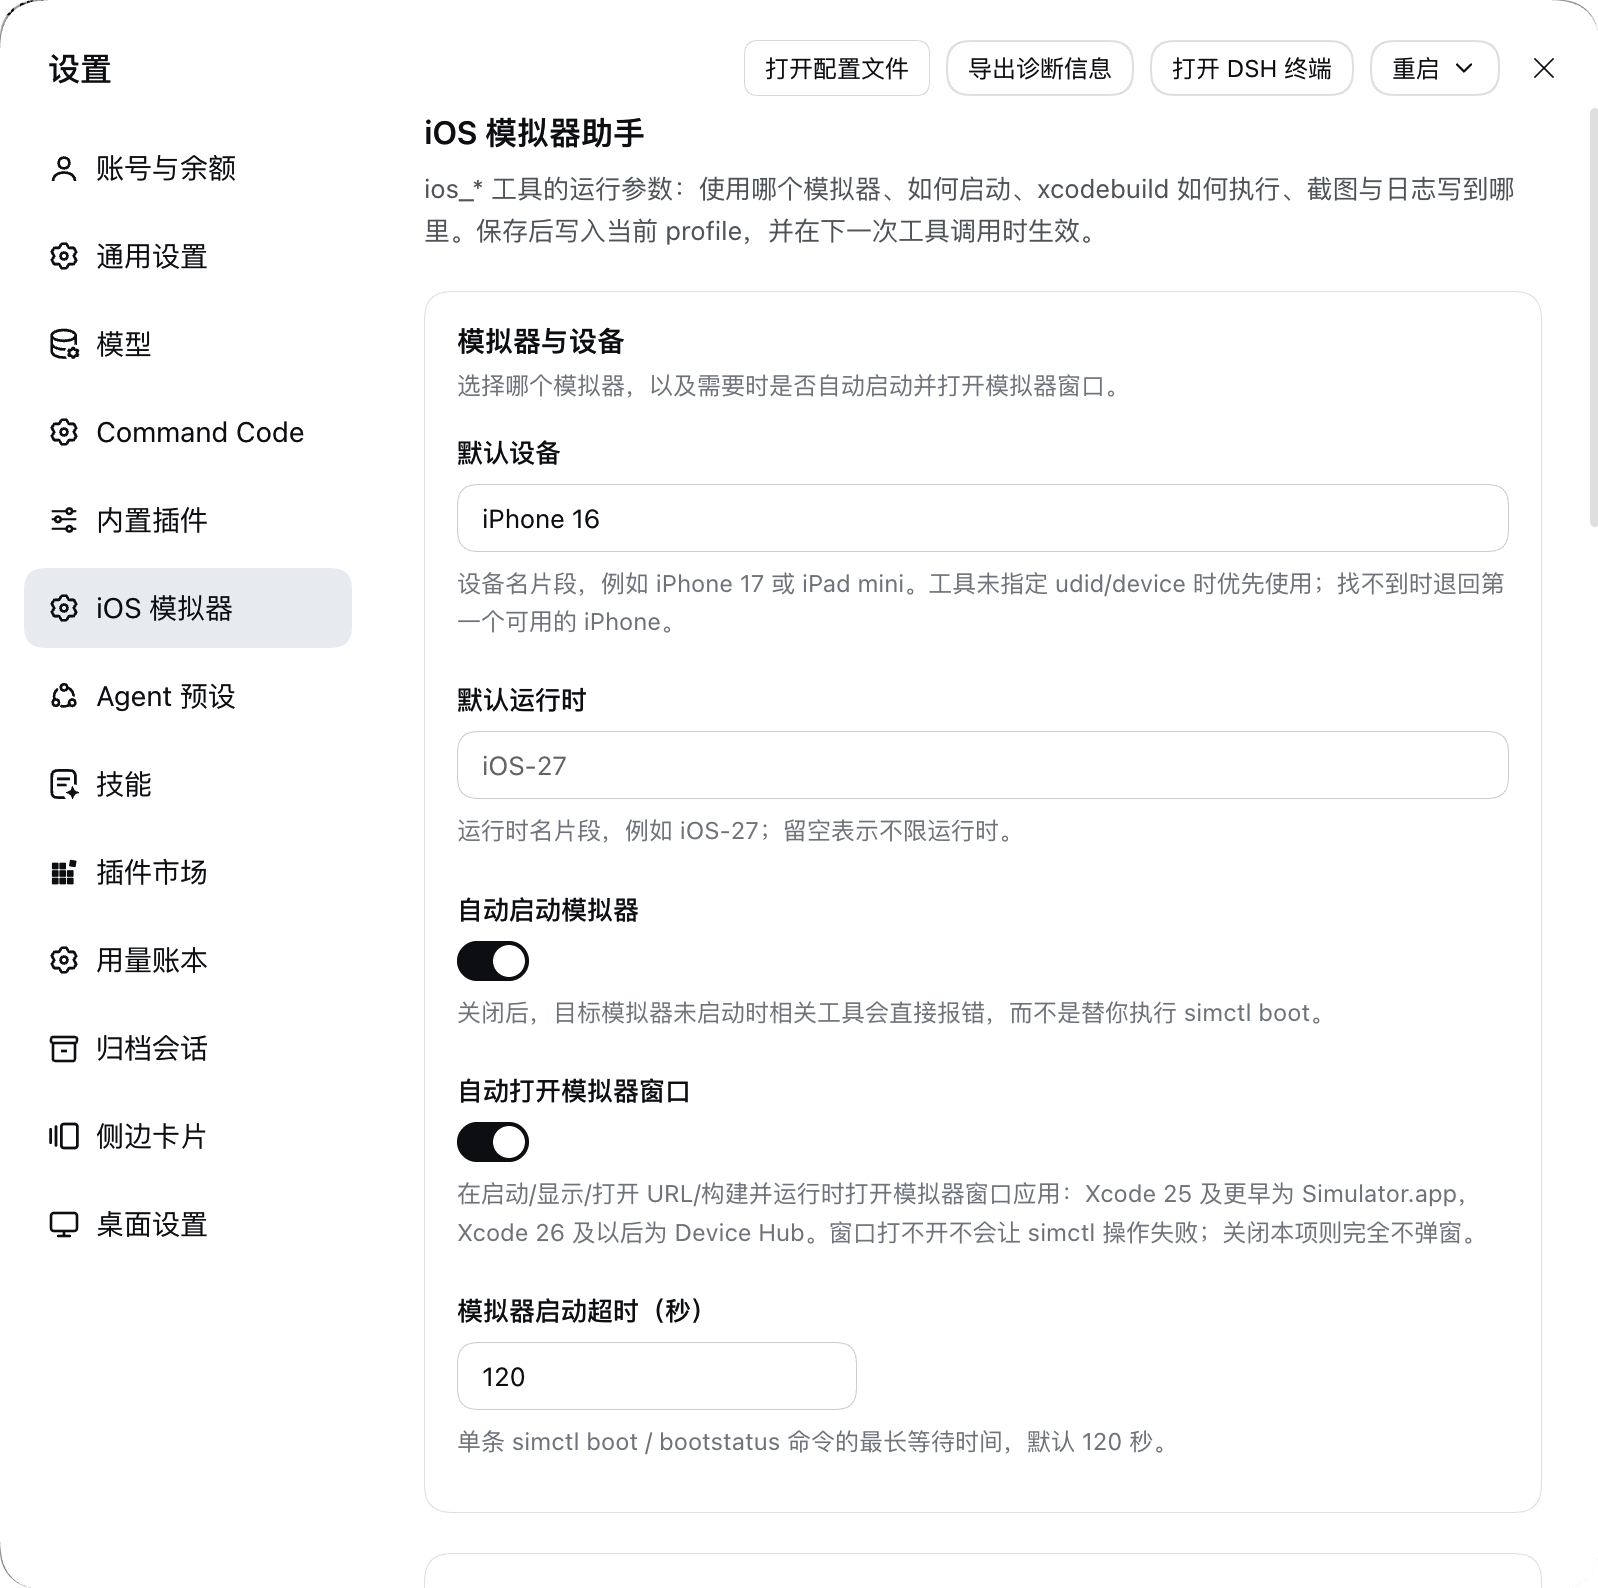
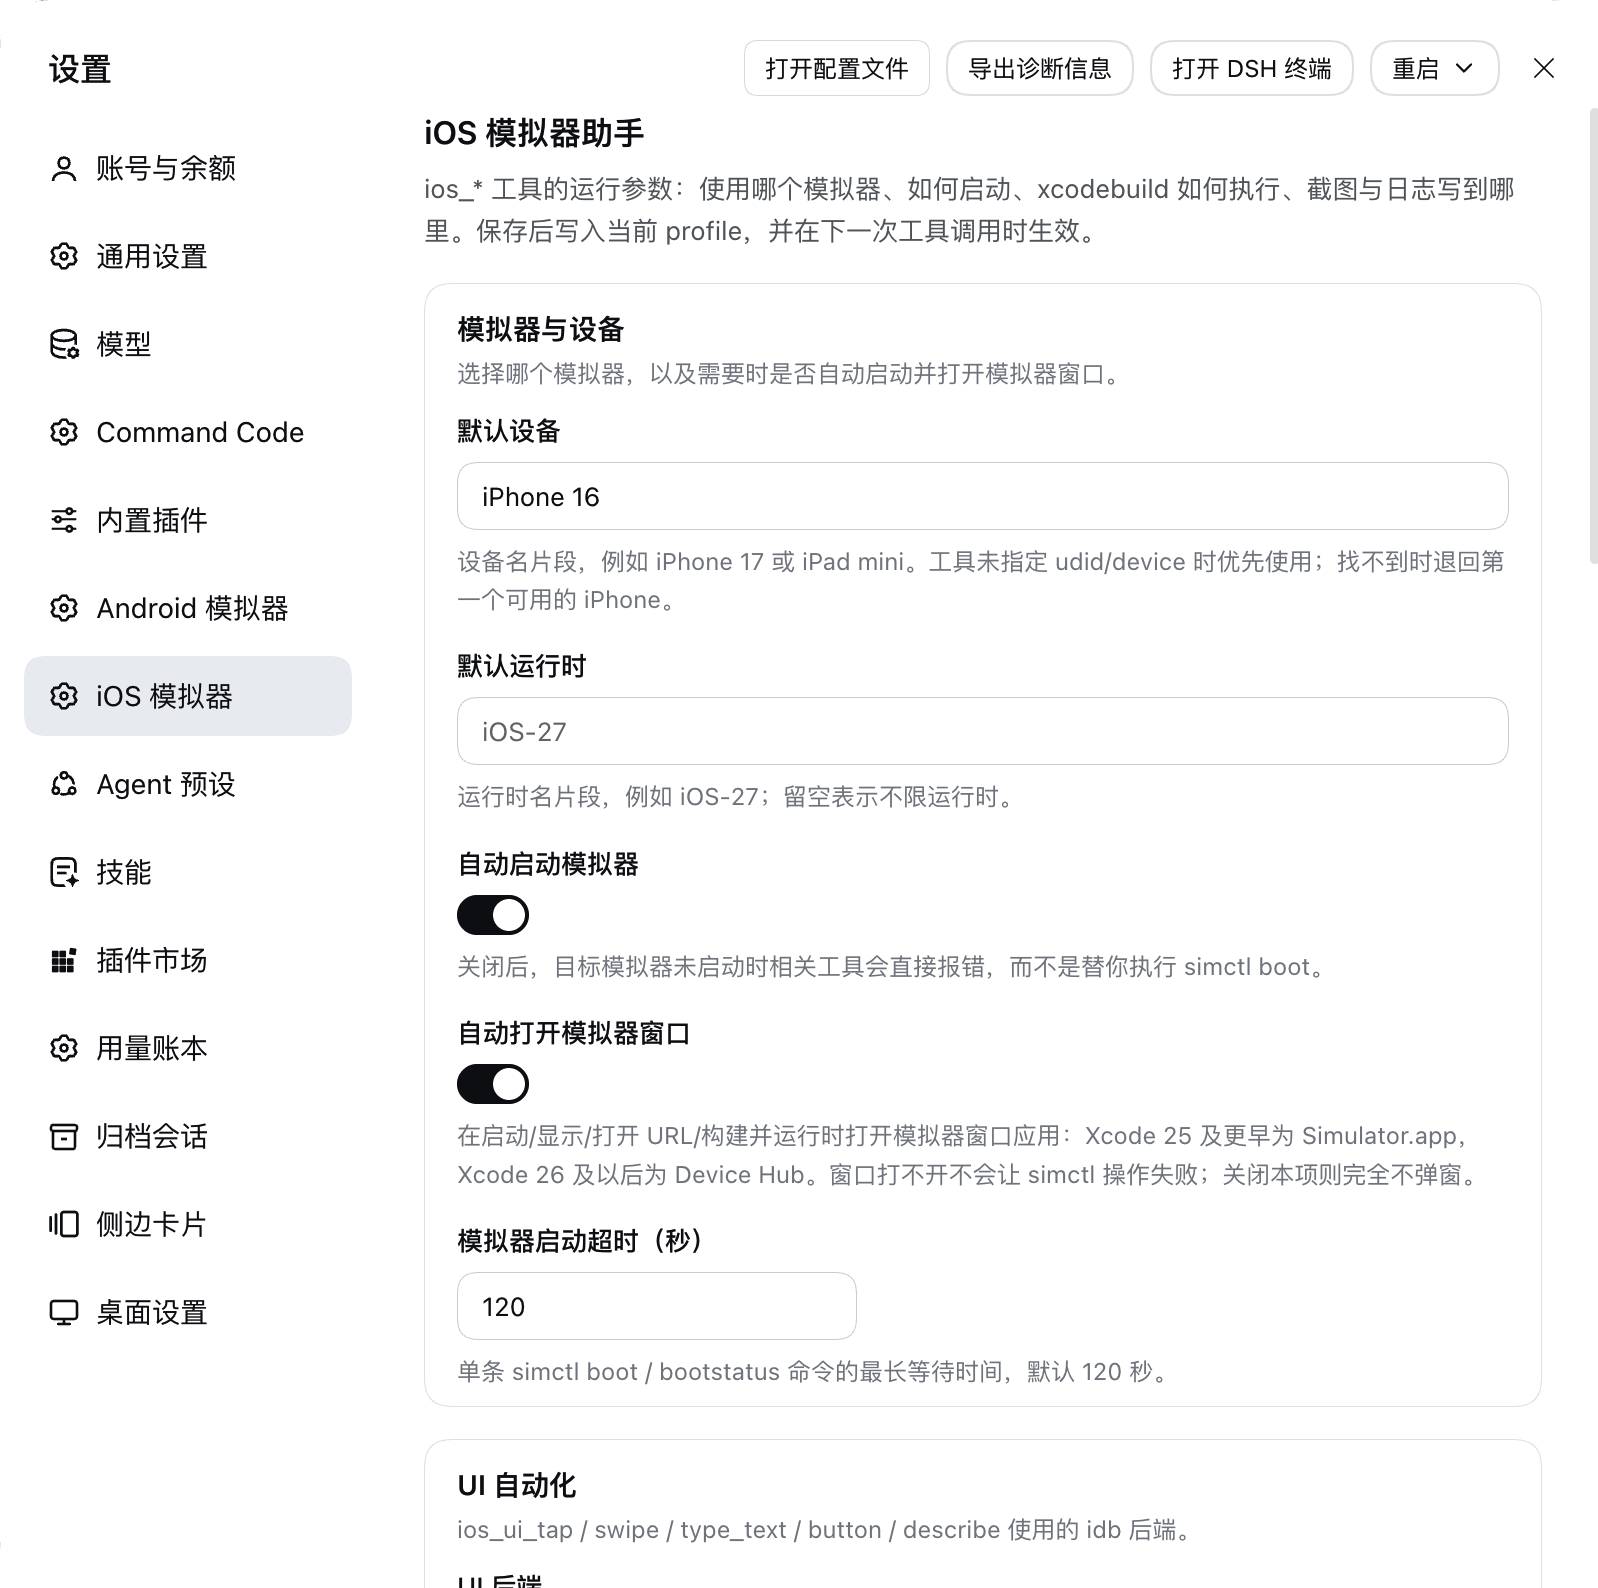
docs: refresh the marketplace screenshots
The four shots in `assets/` predated the tighter card rhythm in `a2dc54f`, so
they no longer show the page this code renders. Replace them with captures of
the current page.

- The new files arrived as iShot timestamps, and that order is the scroll
  order, so they take the four existing names: `screenshots.json` and the raw
  URLs in both READMEs need no edit.
- Only the third caption moved with its frame. That shot now opens at the
  DerivedData directory instead of the extra `xcodebuild` arguments, and ends
  in the output directories; both READMEs carry the change.
- Same window and framing (1598x1588), Chinese locale, no save bar — the
  conventions the previous set followed.

Verified with `pnpm run check` (105 tests, the consistency gate and the real
mount): `assets/` holds exactly the four files `screenshots.json` declares,
the two READMEs still mirror each other, and all four frames are 1598x1588.

diff --git a/README.md b/README.md
@@ -139,9 +139,9 @@ All four are the live page in DSH Desktop, in the order you scroll it — nothin
 
 ![The page scrolled to UI automation and build settings: UI backend, idb binary, UI timeout, default configuration, build timeout and the extra xcodebuild arguments](https://raw.githubusercontent.com/zhz8888/dsh-ios-simulator-helper/main/assets/settings-page-2-ui-automation-and-build.png)
 
-**3. Build tail and logs** — the extra `xcodebuild` arguments, the DerivedData directory and the code-signing switch, then the `ios_logs` window and character limit:
+**3. Build tail and logs** — the DerivedData directory and the code-signing switch, then the `ios_logs` window and character limit, and the start of the output directories:
 
-![The page scrolled further: the extra xcodebuild arguments, the DerivedData directory, code signing during builds, and the default log window and character limit](https://raw.githubusercontent.com/zhz8888/dsh-ios-simulator-helper/main/assets/settings-page-3-logs-and-output.png)
+![The page scrolled further: the DerivedData directory and code signing during builds, then the default log window and character limit, and the data and screenshot directories](https://raw.githubusercontent.com/zhz8888/dsh-ios-simulator-helper/main/assets/settings-page-3-logs-and-output.png)
 
 **4. Output directories and the host check** — where screenshots, logs and DerivedData land, then the macOS verdict with the two detection buttons:
 

diff --git a/README.zh-CN.md b/README.zh-CN.md
@@ -139,9 +139,9 @@ dsh plugin --profile <profile> add @zhz8888/dsh-ios-simulator-helper \
 
 ![滚动到 UI 自动化与构建分组：UI 后端、idb 可执行文件、UI 操作超时、默认构建配置、构建超时与额外 xcodebuild 参数](https://raw.githubusercontent.com/zhz8888/dsh-ios-simulator-helper/main/assets/settings-page-2-ui-automation-and-build.png)
 
-**3. 构建尾部与日志** —— 额外 `xcodebuild` 参数、DerivedData 目录与代码签名开关，接着是 `ios_logs` 的窗口与字符上限：
+**3. 构建尾部与日志** —— DerivedData 目录与代码签名开关，接着是 `ios_logs` 的窗口与字符上限，以及输出目录的开头：
 
-![继续向下滚动：额外 xcodebuild 参数、DerivedData 目录、构建时禁用代码签名，以及默认日志窗口与默认日志字符上限](https://raw.githubusercontent.com/zhz8888/dsh-ios-simulator-helper/main/assets/settings-page-3-logs-and-output.png)
+![继续向下滚动：DerivedData 目录、构建时禁用代码签名，接着是默认日志窗口与默认日志字符上限，以及数据目录与截图目录](https://raw.githubusercontent.com/zhz8888/dsh-ios-simulator-helper/main/assets/settings-page-3-logs-and-output.png)
 
 **4. 输出目录与宿主检测** —— 截图/日志/DerivedData 的落盘位置，然后是 macOS 判定与两个检测按钮：
 
